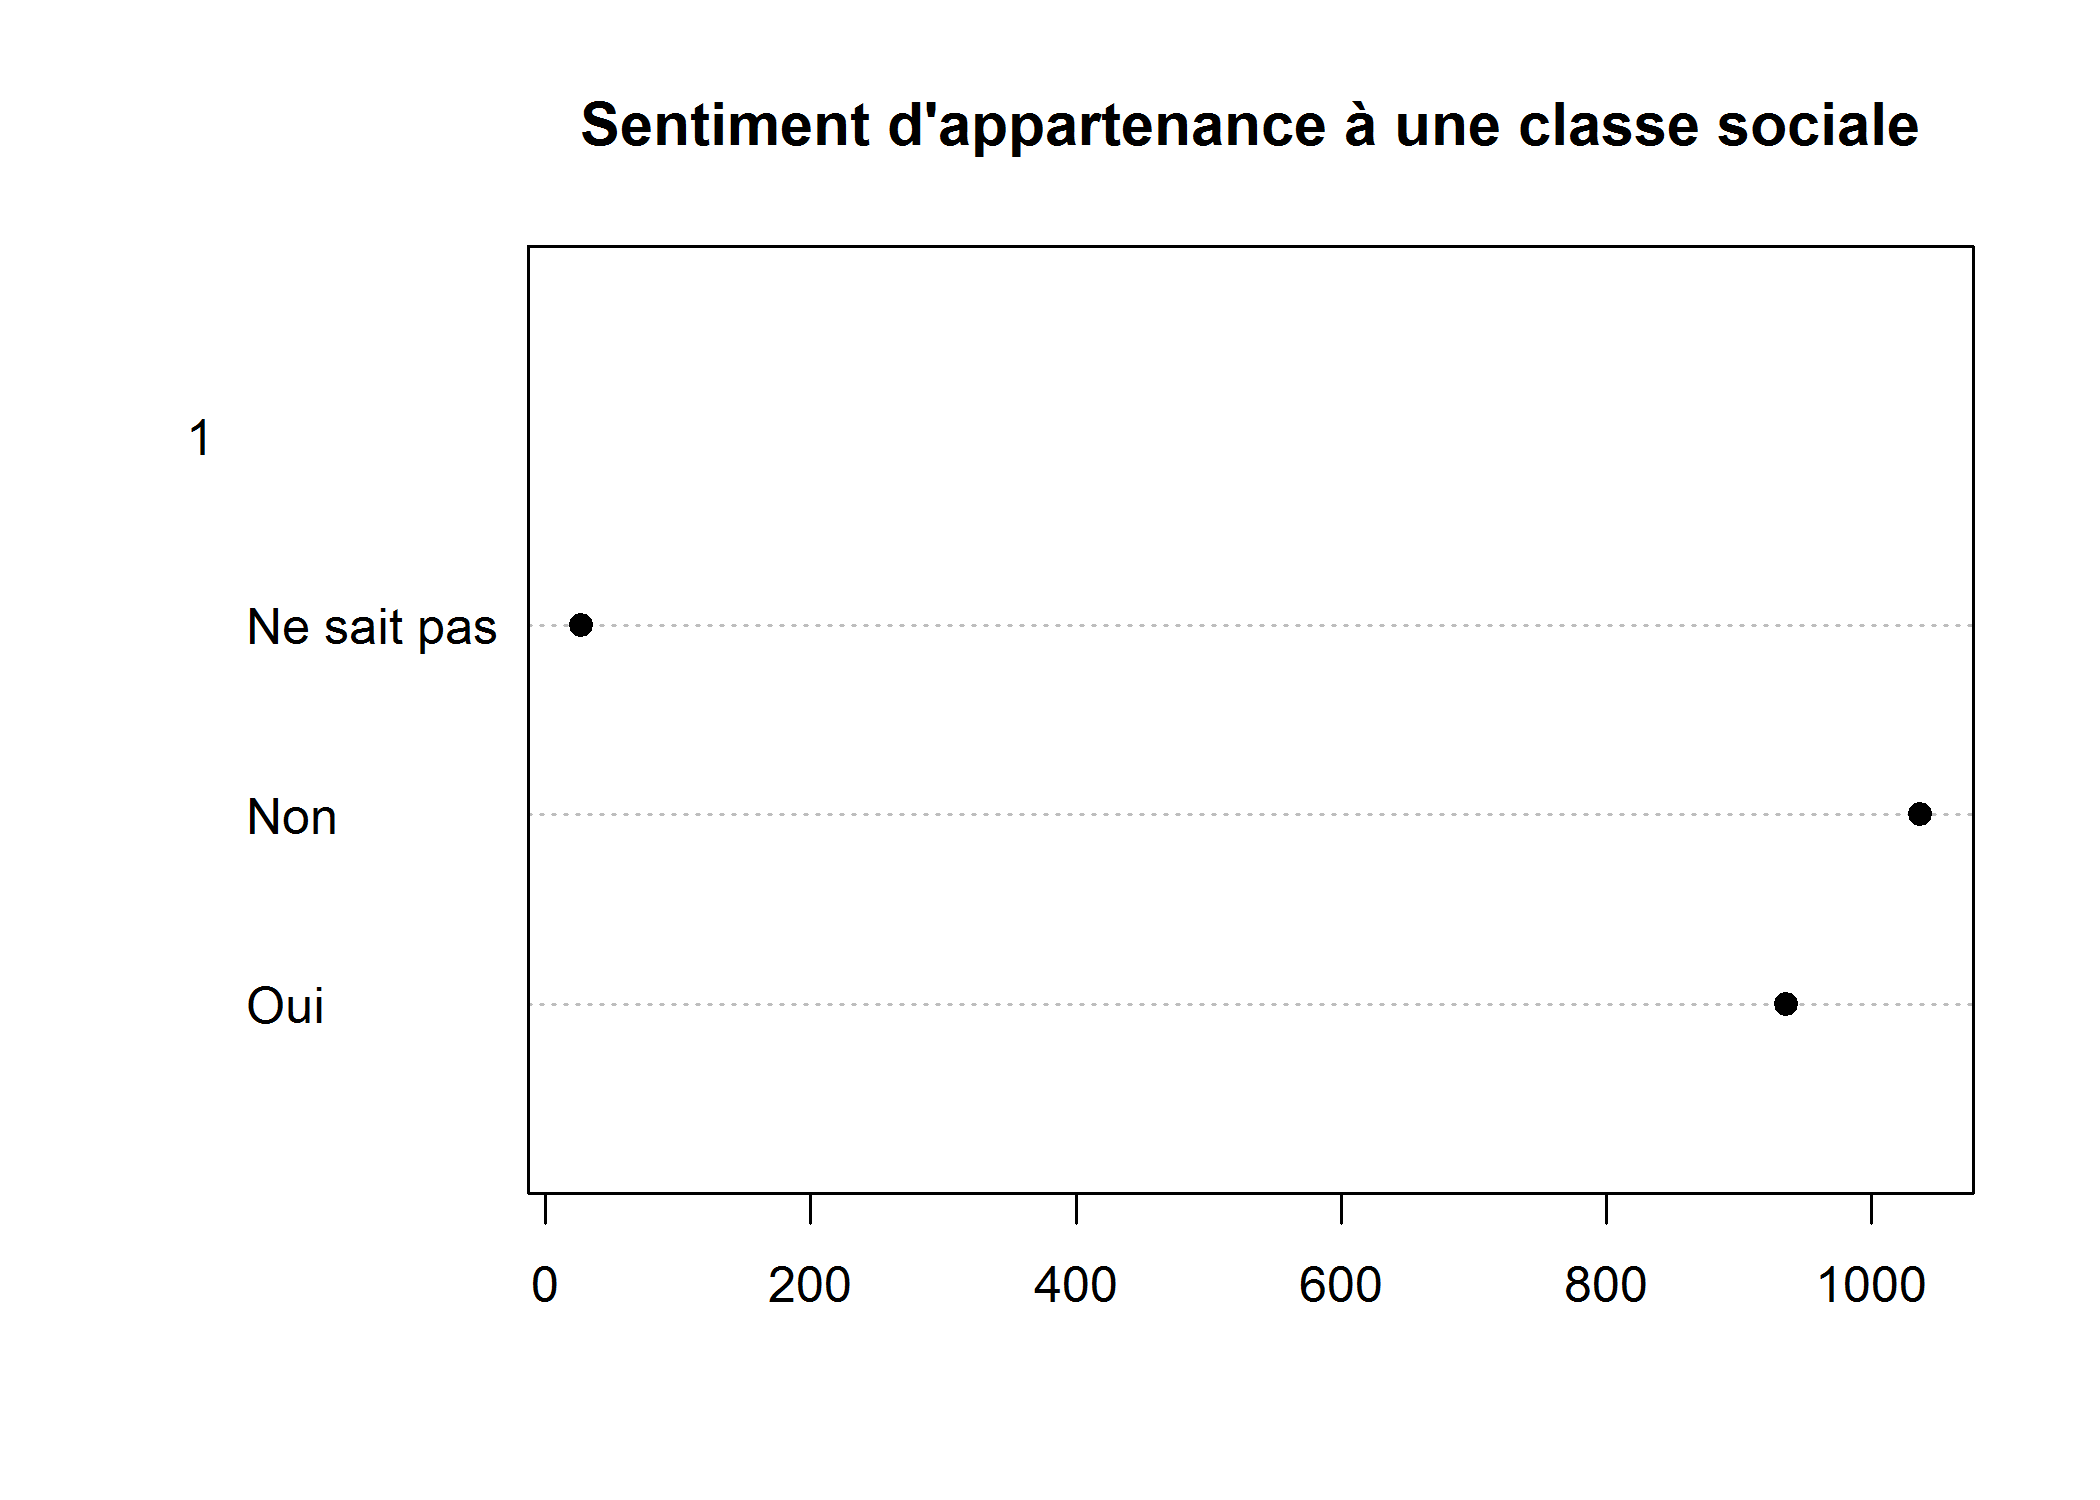
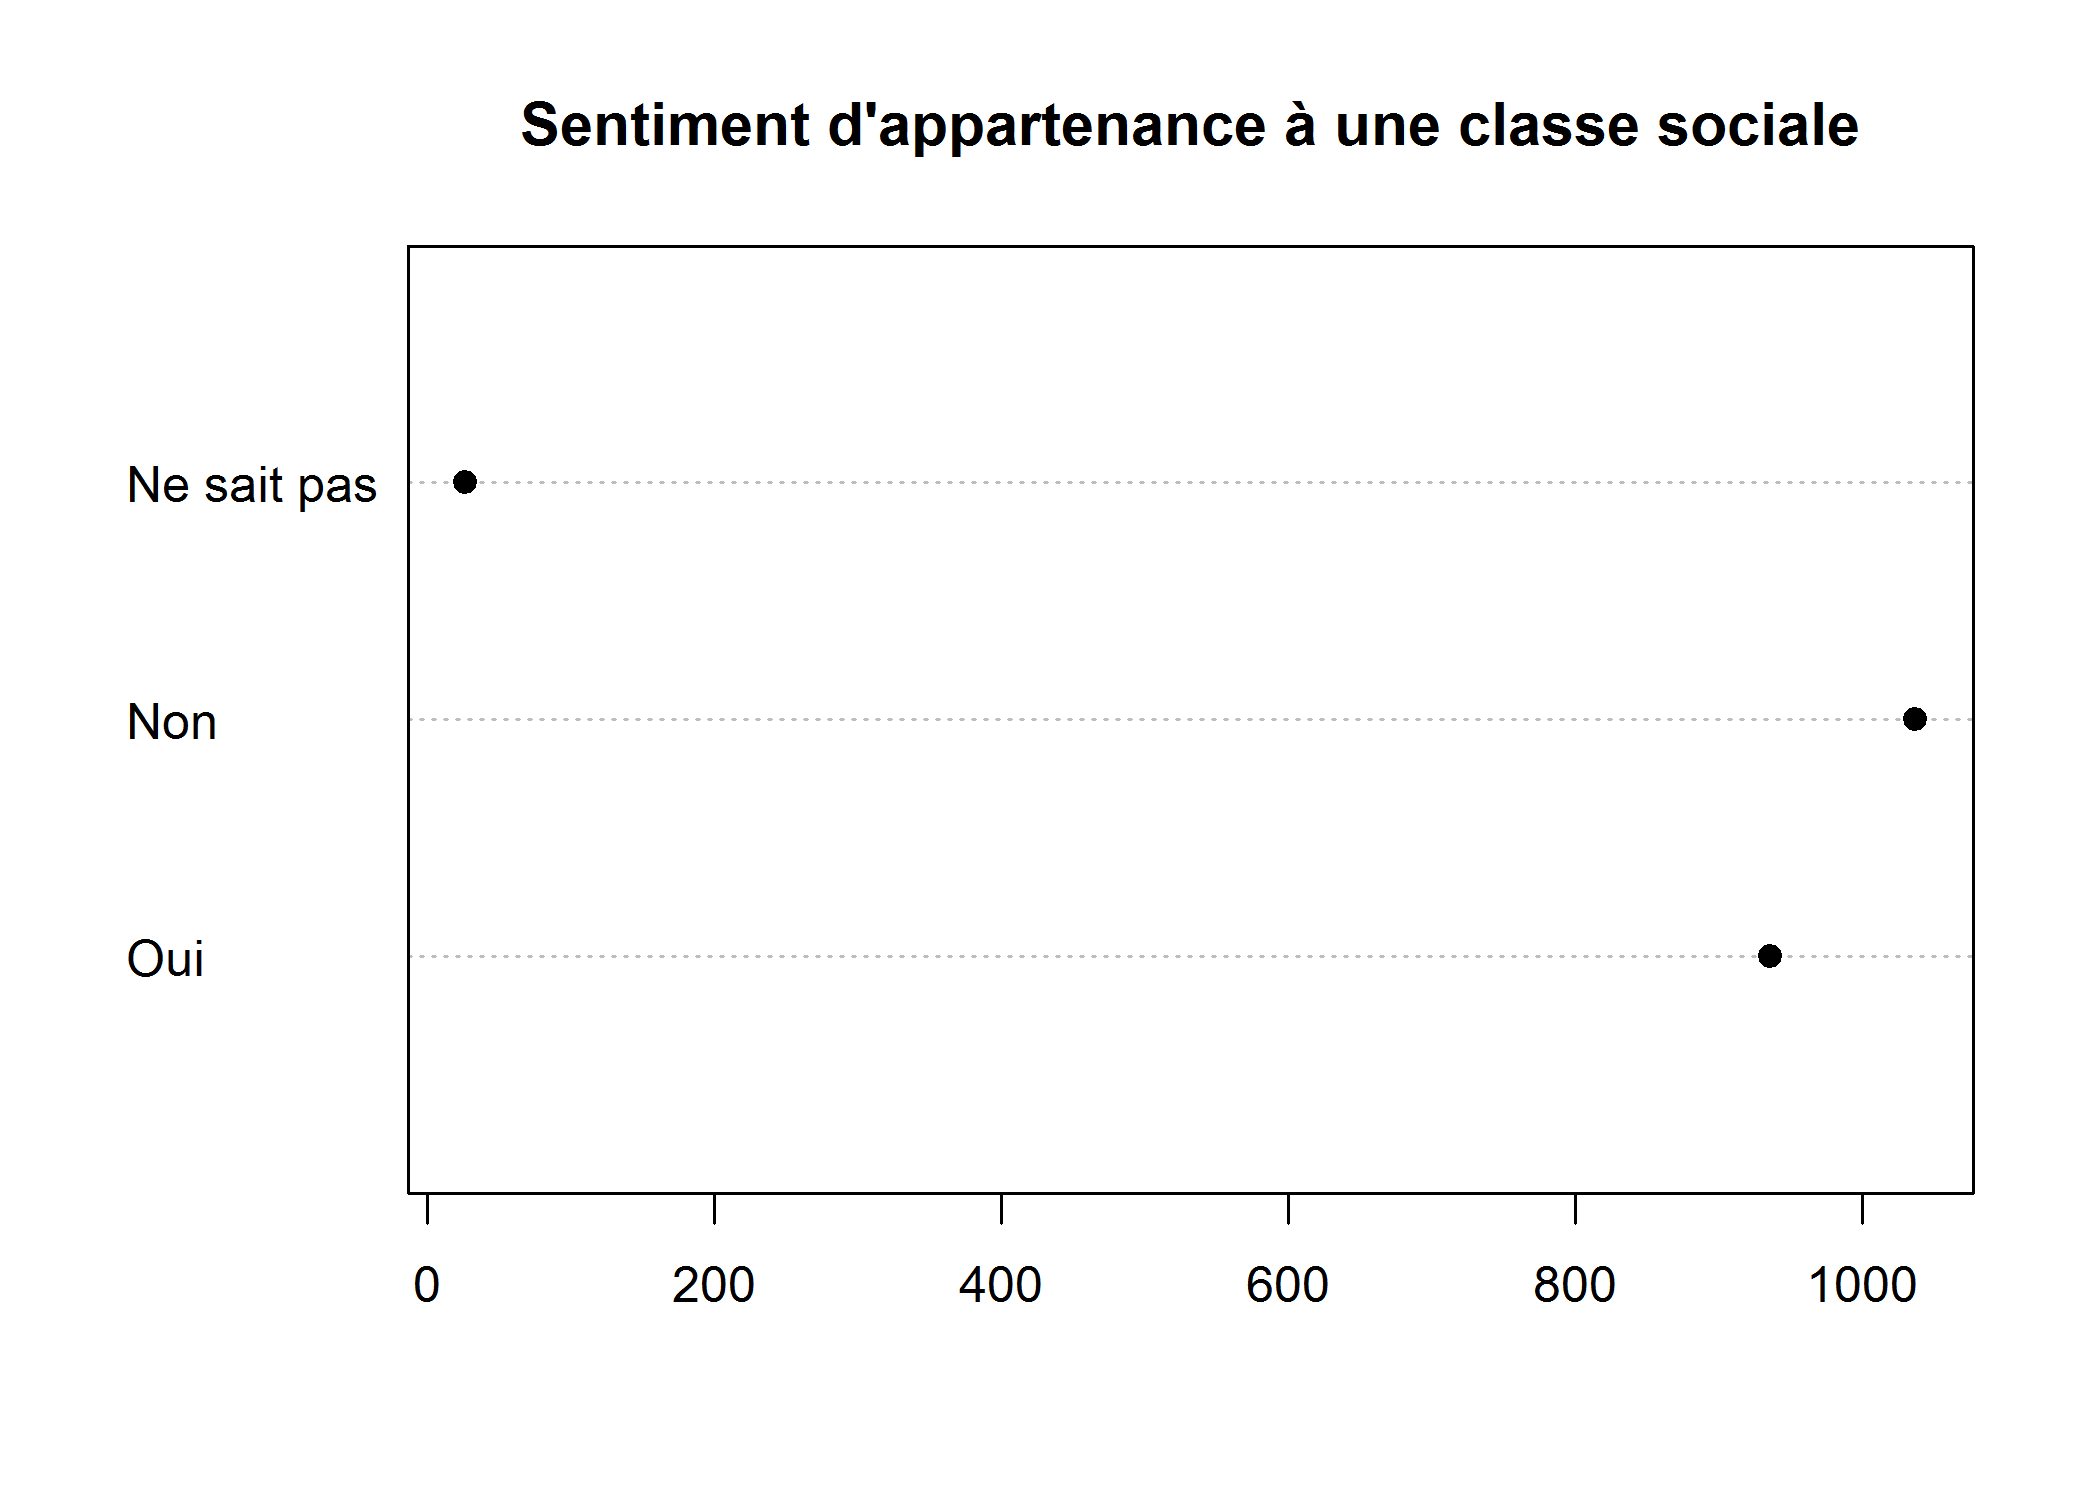
update

diff --git a/pem_stat_univ.html b/pem_stat_univ.html
@@ -446,24 +446,35 @@ Exemple de diagramme en bâtons
 </figure>
 <p>Pour les autres types de variables qualitatives, on privilégiera les <em>diagrammes de Cleveland</em>, obtenus avec la fonction <code data-package="graphics">dotchart</code>. On doit appliquer cette fonction au tri à plat de la variable, obtenu avec <code data-package="base">table</code><a href="#fn5" class="footnoteRef" id="fnref5"><sup>5</sup></a> :</p>
 <figure>
-<pre class="sourceCode r"><code class="sourceCode r"><span class="kw">dotchart</span>(<span class="kw">as.matrix</span>(<span class="kw">table</span>(d$clso)), <span class="dt">main =</span> <span class="st">&quot;Sentiment d&#39;appartenance à une classe sociale&quot;</span>, 
+<pre class="sourceCode r"><code class="sourceCode r"><span class="kw">dotchart</span>(<span class="kw">as.matrix</span>(<span class="kw">table</span>(d$clso))[, <span class="dv">1</span>], <span class="dt">main =</span> <span class="st">&quot;Sentiment d&#39;appartenance à une classe sociale&quot;</span>, 
   <span class="dt">pch =</span> <span class="dv">19</span>)</code></pre>
 <img src="images/pem_stat_univ/unnamed-chunk-19-1.png" title="" alt="" width="1050" />
 <figcaption>
 Exemple de diagramme de Cleveland
 </figcaption>
 </figure>
+<div class="note">
+<p>Il est possible d’entrer directement la commande suivante dans la console :</p>
+<pre class="sourceCode r"><code class="sourceCode r"><span class="kw">dotchart</span>(<span class="kw">table</span>(d$clso))</code></pre>
+<p><strong>R</strong> produira bien le diagramme de Cleveland désiré mais affichera un message d’avertissement (<em>Warning</em>) car pour des raisons liées au fonctionnement interne de la fonction <code data-package="graphics">dotchart</code>, il est attendu une matrice ou un vecteur, non un objet de type table. Pour éviter cet avertissement, il est nécessaire de faire appel à la fonction <code data-package="base" data-rdocumentation="matrix">as.matrix</code>.</p>
+<pre class="sourceCode r"><code class="sourceCode r"><span class="kw">dotchart</span>(<span class="kw">as.matrix</span>(<span class="kw">table</span>(d$clso)))</code></pre>
+<p><img src="images/pem_stat_univ/unnamed-chunk-21-1.png" title="" alt="" width="1050" /></p>
+<p>Dans le cas présent, on voit apparaître un chiffre 1 au-dessus des modalités. En fait, <code data-package="graphics">dotchart</code> peut être appliqué au résultat d’un tableau croisé à deux entrées, auquel cas il présentera les résultats pour chaque colonne. Comme dans l’exemple ci-après.</p>
+<pre class="sourceCode r"><code class="sourceCode r"><span class="kw">dotchart</span>(<span class="kw">as.matrix</span>(<span class="kw">table</span>(d$clso, d$sexe)))</code></pre>
+<p><img src="images/pem_stat_univ/unnamed-chunk-22-1.png" title="" alt="" width="1050" /></p>
+Cela ne résoud pas le problème pour notre diagramme de Cleveland issu d’un tri à plat simple. Pour bien comprendre, la fonction <code data-package="base" data-rdocumentation="matrix">as.matrix</code> a produit un objet à deux dimensions ayant une colonne et plusieurs lignes. On indiquera à <strong>R</strong> que l’on ne souhaite extraire la première colonne avec <code>[, 1]</code> (juste après l’appel à <code data-package="base" data-rdocumentation="matrix">as.matrix</code>). C’est ce qu’on appelle l’<em>indexation</em> que l’on abordera plus en détails dans le chapite <a href="pem_manipulation.html#indexation">Manipulation de données</a>.
+</div>
 <p>Quand la variable comprend un grand nombre de modalités, il est préférable d’ordonner le tri à plat obtenu à l’aide de la fonction <code data-package="base">sort</code> :</p>
 <figure>
-<pre class="sourceCode r"><code class="sourceCode r"><span class="kw">dotchart</span>(<span class="kw">as.matrix</span>(<span class="kw">sort</span>(<span class="kw">table</span>(d$qualif))), <span class="dt">main =</span> <span class="st">&quot;Niveau de qualification&quot;</span>)</code></pre>
-<img src="images/pem_stat_univ/unnamed-chunk-20-1.png" title="" alt="" width="1050" />
+<pre class="sourceCode r"><code class="sourceCode r"><span class="kw">dotchart</span>(<span class="kw">as.matrix</span>(<span class="kw">sort</span>(<span class="kw">table</span>(d$qualif)))[, <span class="dv">1</span>], <span class="dt">main =</span> <span class="st">&quot;Niveau de qualification&quot;</span>)</code></pre>
+<img src="images/pem_stat_univ/unnamed-chunk-23-1.png" title="" alt="" width="1050" />
 <figcaption>
 Exemple de diagramme de Cleveland ordonné
 </figcaption>
 </figure>
 <div class="astuce">
 <p>L’agument <code>pch</code>, qui est utilisé par la plupart des graphiques de type points, permet de spécifier le symbole à utiliser. Il peut prendre soit un nombre entier compris entre 0 et 25, soit un charactère textuel (voir ci-dessous).</p>
-<img src="images/pem_stat_univ/unnamed-chunk-21-1.png" title="" alt="" width="1050" />
+<img src="images/pem_stat_univ/unnamed-chunk-24-1.png" title="" alt="" width="1050" />
 </div>
 </div>
 <div id="intervalle-de-confiance-1" class="section level3">
